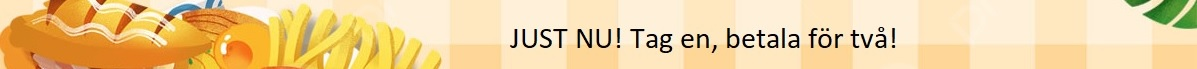
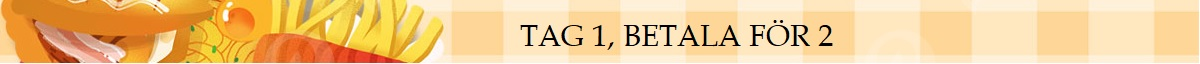
Added ad pictures desktop & mobile

diff --git a/src/assets/components/Advertisement/Ad.jsx b/src/assets/components/Advertisement/Ad.jsx
@@ -4,32 +4,28 @@ import './Ad.css'
 import obey from '../../pictures/AdObey.png'
 import korv from '../../pictures/AdKorv.png'
 import food from '../../pictures/AdFood.png'
-import breadButterAd from '../../pictures/breadButterAd.jpg'
-import foody from '../../pictures/foody.jpg'
+import hamb from '../../pictures/adNailSoup.jpg'
+import admobile from '../../pictures/adNailSoupMobile.jpg'
 
 // window.innerWidth < 720 ? setadList(adMobilePhotos) : setadList(adPhotos)
  const adPhotos = [
-   hamb
+    hamb,
+    hamb,
+    hamb
  ]
 
  const adMobilePhotos = [
-  obey,
-  korv,
-  food,
-  breadButterAd,
-  foody,
-  "image6.jpg",
-  "image7.jpg",
-  "image8.jpg",
-  "image9.jpg",
-];
+   admobile,
+   admobile,
+   admobile
+ ]
 
 const AdCarousel = () => {
-  const[isMobile, setisMobile] = useState(window.innerWidth < 720)
+  const[isMobile, setisMobile] = useState(window.innerWidth < 770)
 
 
   const updateMedia = () => {
-    setisMobile(window.innerWidth < 730);
+    setisMobile(window.innerWidth < 770);
   };
 
 useEffect(() => {

diff --git a/src/assets/components/Advertisement/Ad.css b/src/assets/components/Advertisement/Ad.css
@@ -1,7 +1,10 @@
 .carousel-indicators {
     z-index: 0!important;
+    
 }
 
-.img {
-    max-height: 10rem;
-}
+carousel-item > img {
+    max-height: 3rem;
+    max-width: 80vw;
+} 
+
